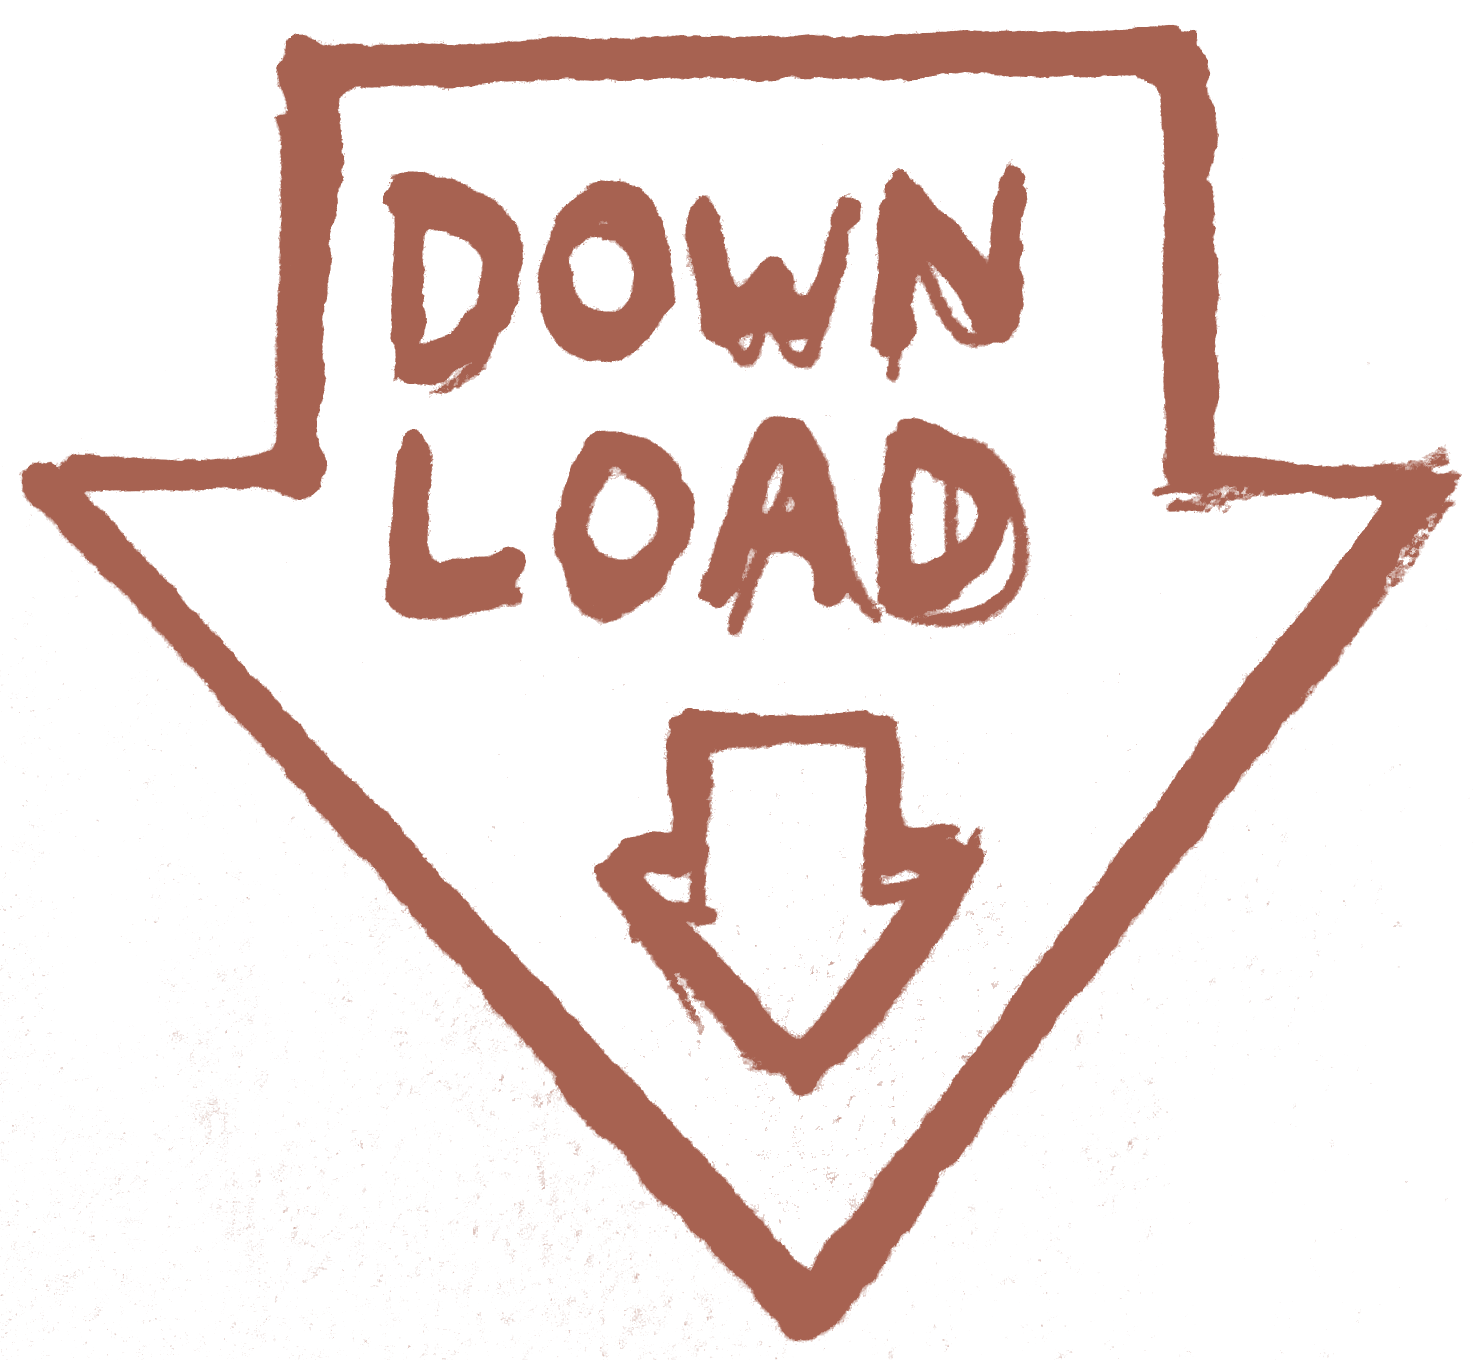
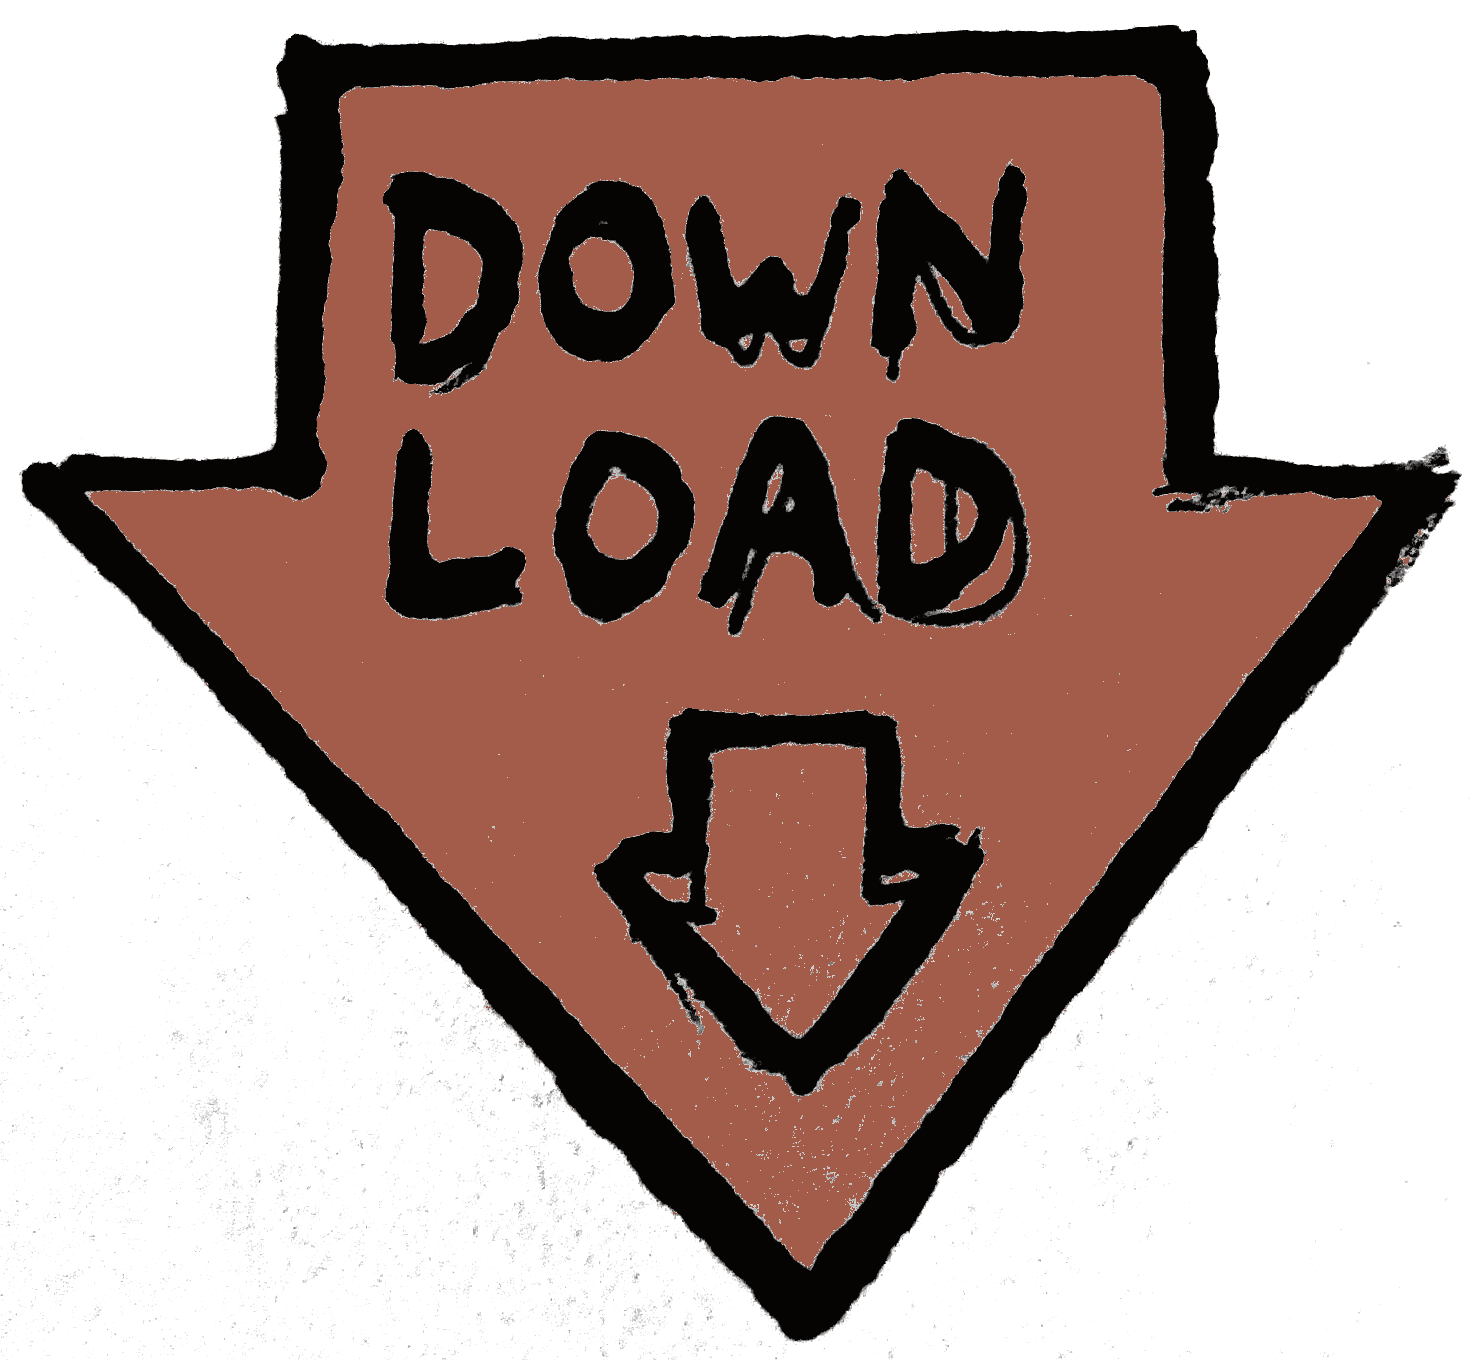
Fill the download arrows with terracotta, keep lines/text black
Swap: outline strokes and "DOWNLOAD" text back to black, and the
arrow's interior filled with the terracotta (#a35c4a) instead of
white, matching the site's other filled red badges. Bump image
cache-bust to v=3 everywhere it's used.

diff --git a/codex-fr.html b/codex-fr.html
@@ -24,10 +24,10 @@
     <img src="codex-art-mobile.jpg" alt="Drawing: a corridor of ornate ink arches leading to a small tree and a doorway" class="codex-art-mobile">
     <p class="content-link codex-title" style="color:var(--rouge); font-weight:700; text-decoration:none;">Burnin' Chamber Music (!) I</p>
     <embed src="score-I.pdf" type="application/pdf">
-    <p><a class="content-link codex-download" href="score-I.pdf" target="_blank" rel="noopener"><img src="download-arrow-fill.png?v=2" alt="Télécharger les partitions en PDF" class="download-arrow"></a></p>
+    <p><a class="content-link codex-download" href="score-I.pdf" target="_blank" rel="noopener"><img src="download-arrow-fill.png?v=3" alt="Télécharger les partitions en PDF" class="download-arrow"></a></p>
     <p class="content-link codex-title" style="color:var(--rouge); font-weight:700; text-decoration:none; margin-top:1rem;">Burnin' Chamber Music (!) II</p>
     <embed src="score-II.pdf" type="application/pdf">
-    <p><a class="content-link codex-download" href="score-II.pdf" target="_blank" rel="noopener"><img src="download-arrow-fill.png?v=2" alt="Télécharger les partitions en PDF" class="download-arrow"></a></p>  </div>
+    <p><a class="content-link codex-download" href="score-II.pdf" target="_blank" rel="noopener"><img src="download-arrow-fill.png?v=3" alt="Télécharger les partitions en PDF" class="download-arrow"></a></p>  </div>
   <img src="codex-figure.jpg" alt="Drawing: a framed figure with arms crossed and a head made of ornate clustered shapes" class="codex-figure">
   <img src="niu.svg" alt="Drawing: a spiky ink sunburst with a hollow center" class="codex-niu">
 </div>

diff --git a/codex-ro.html b/codex-ro.html
@@ -24,10 +24,10 @@
     <img src="codex-art-mobile.jpg" alt="Drawing: a corridor of ornate ink arches leading to a small tree and a doorway" class="codex-art-mobile">
     <p class="content-link codex-title" style="color:var(--rouge); font-weight:700; text-decoration:none;">Burnin' Chamber Music (!) I</p>
     <embed src="score-I.pdf" type="application/pdf">
-    <p><a class="content-link codex-download" href="score-I.pdf" target="_blank" rel="noopener"><img src="download-arrow-fill.png?v=2" alt="Descarcă partiturile în PDF" class="download-arrow"></a></p>
+    <p><a class="content-link codex-download" href="score-I.pdf" target="_blank" rel="noopener"><img src="download-arrow-fill.png?v=3" alt="Descarcă partiturile în PDF" class="download-arrow"></a></p>
     <p class="content-link codex-title" style="color:var(--rouge); font-weight:700; text-decoration:none; margin-top:1rem;">Burnin' Chamber Music (!) II</p>
     <embed src="score-II.pdf" type="application/pdf">
-    <p><a class="content-link codex-download" href="score-II.pdf" target="_blank" rel="noopener"><img src="download-arrow-fill.png?v=2" alt="Descarcă partiturile în PDF" class="download-arrow"></a></p>  </div>
+    <p><a class="content-link codex-download" href="score-II.pdf" target="_blank" rel="noopener"><img src="download-arrow-fill.png?v=3" alt="Descarcă partiturile în PDF" class="download-arrow"></a></p>  </div>
   <img src="codex-figure.jpg" alt="Drawing: a framed figure with arms crossed and a head made of ornate clustered shapes" class="codex-figure">
   <img src="niu.svg" alt="Drawing: a spiky ink sunburst with a hollow center" class="codex-niu">
 </div>

diff --git a/codex-es.html b/codex-es.html
@@ -24,10 +24,10 @@
     <img src="codex-art-mobile.jpg" alt="Drawing: a corridor of ornate ink arches leading to a small tree and a doorway" class="codex-art-mobile">
     <p class="content-link codex-title" style="color:var(--rouge); font-weight:700; text-decoration:none;">Burnin' Chamber Music (!) I</p>
     <embed src="score-I.pdf" type="application/pdf">
-    <p><a class="content-link codex-download" href="score-I.pdf" target="_blank" rel="noopener"><img src="download-arrow-fill.png?v=2" alt="Descargar partituras en PDF" class="download-arrow"></a></p>
+    <p><a class="content-link codex-download" href="score-I.pdf" target="_blank" rel="noopener"><img src="download-arrow-fill.png?v=3" alt="Descargar partituras en PDF" class="download-arrow"></a></p>
     <p class="content-link codex-title" style="color:var(--rouge); font-weight:700; text-decoration:none; margin-top:1rem;">Burnin' Chamber Music (!) II</p>
     <embed src="score-II.pdf" type="application/pdf">
-    <p><a class="content-link codex-download" href="score-II.pdf" target="_blank" rel="noopener"><img src="download-arrow-fill.png?v=2" alt="Descargar partituras en PDF" class="download-arrow"></a></p>  </div>
+    <p><a class="content-link codex-download" href="score-II.pdf" target="_blank" rel="noopener"><img src="download-arrow-fill.png?v=3" alt="Descargar partituras en PDF" class="download-arrow"></a></p>  </div>
   <img src="codex-figure.jpg" alt="Drawing: a framed figure with arms crossed and a head made of ornate clustered shapes" class="codex-figure">
   <img src="niu.svg" alt="Drawing: a spiky ink sunburst with a hollow center" class="codex-niu">
 </div>

diff --git a/codex.html b/codex.html
@@ -24,10 +24,10 @@
     <img src="codex-art-mobile.jpg" alt="Drawing: a corridor of ornate ink arches leading to a small tree and a doorway" class="codex-art-mobile">
     <p class="content-link codex-title" style="color:var(--rouge); font-weight:700; text-decoration:none;">Burnin' Chamber Music (!) I</p>
     <embed src="score-I.pdf" type="application/pdf">
-    <p><a class="content-link codex-download" href="score-I.pdf" target="_blank" rel="noopener"><img src="download-arrow-fill.png?v=2" alt="Download scores in PDF" class="download-arrow"></a></p>
+    <p><a class="content-link codex-download" href="score-I.pdf" target="_blank" rel="noopener"><img src="download-arrow-fill.png?v=3" alt="Download scores in PDF" class="download-arrow"></a></p>
     <p class="content-link codex-title" style="color:var(--rouge); font-weight:700; text-decoration:none; margin-top:1rem;">Burnin' Chamber Music (!) II</p>
     <embed src="score-II.pdf" type="application/pdf">
-    <p><a class="content-link codex-download" href="score-II.pdf" target="_blank" rel="noopener"><img src="download-arrow-fill.png?v=2" alt="Download scores in PDF" class="download-arrow"></a></p>  </div>
+    <p><a class="content-link codex-download" href="score-II.pdf" target="_blank" rel="noopener"><img src="download-arrow-fill.png?v=3" alt="Download scores in PDF" class="download-arrow"></a></p>  </div>
   <img src="codex-figure.jpg" alt="Drawing: a framed figure with arms crossed and a head made of ornate clustered shapes" class="codex-figure">
   <img src="niu.svg" alt="Drawing: a spiky ink sunburst with a hollow center" class="codex-niu">
 </div>

diff --git a/argumentum-fr.html b/argumentum-fr.html
@@ -37,7 +37,7 @@
   <section class="presskit">
     <div class="presskit-cols">
       <div class="press-col">
-        <a class="content-link presskit-download-link" href="press-kit-press.pdf" download target="_blank" rel="noopener"><img src="download-arrow-fill.png?v=2" alt="" class="download-arrow">Dossier de presse</a>
+        <a class="content-link presskit-download-link" href="press-kit-press.pdf" download target="_blank" rel="noopener"><img src="download-arrow-fill.png?v=3" alt="" class="download-arrow">Dossier de presse</a>
         <article>
           <p class="press-lede">Deux saxophones, une basse défrettée et des percussions hétéroclites : un son rugueux, lyrique, qui se consume dans une danse aveugle<sup>*</sup>.</p>
           <p class="press-sub">* Port du casque recommandé.</p>
@@ -55,7 +55,7 @@
       </div>
 
       <div class="tech-col">
-        <a class="content-link presskit-download-link" href="press-kit-technical.pdf" download target="_blank" rel="noopener"><img src="download-arrow-fill.png?v=2" alt="" class="download-arrow">Fiche technique</a>
+        <a class="content-link presskit-download-link" href="press-kit-technical.pdf" download target="_blank" rel="noopener"><img src="download-arrow-fill.png?v=3" alt="" class="download-arrow">Fiche technique</a>
         <article class="rider">
           <h3>Fiche technique</h3>
           <div class="rider-grid">

diff --git a/argumentum-es.html b/argumentum-es.html
@@ -37,7 +37,7 @@
   <section class="presskit">
     <div class="presskit-cols">
       <div class="press-col">
-        <a class="content-link presskit-download-link" href="press-kit-press.pdf" download target="_blank" rel="noopener"><img src="download-arrow-fill.png?v=2" alt="" class="download-arrow">Dossier de prensa</a>
+        <a class="content-link presskit-download-link" href="press-kit-press.pdf" download target="_blank" rel="noopener"><img src="download-arrow-fill.png?v=3" alt="" class="download-arrow">Dossier de prensa</a>
         <article>
           <p class="press-lede">Dos saxofones, un bajo sin trastes y percusiones heteróclitas: un sonido rugoso, lírico, que se consume en una danza ciega<sup>*</sup>.</p>
           <p class="press-sub">* Se recomienda casco de obra.</p>
@@ -55,7 +55,7 @@
       </div>
 
       <div class="tech-col">
-        <a class="content-link presskit-download-link" href="press-kit-technical.pdf" download target="_blank" rel="noopener"><img src="download-arrow-fill.png?v=2" alt="" class="download-arrow">Ficha técnica</a>
+        <a class="content-link presskit-download-link" href="press-kit-technical.pdf" download target="_blank" rel="noopener"><img src="download-arrow-fill.png?v=3" alt="" class="download-arrow">Ficha técnica</a>
         <article class="rider">
           <h3>Ficha técnica</h3>
           <div class="rider-grid">

diff --git a/argumentum-ro.html b/argumentum-ro.html
@@ -35,7 +35,7 @@
   <section class="presskit">
     <div class="presskit-cols">
       <div class="press-col">
-        <a class="content-link presskit-download-link" href="press-kit-press.pdf" download target="_blank" rel="noopener"><img src="download-arrow-fill.png?v=2" alt="" class="download-arrow">Press kit</a>
+        <a class="content-link presskit-download-link" href="press-kit-press.pdf" download target="_blank" rel="noopener"><img src="download-arrow-fill.png?v=3" alt="" class="download-arrow">Press kit</a>
         <article>
           <p class="press-lede">Două saxofoane, un bas fără taste și percuție insolită: un sunet aspru, liric, care se consumă pe sine într-un dans orb<sup>*</sup>.</p>
           <p class="press-sub">* Casca de protecție este recomandată.</p>
@@ -53,7 +53,7 @@
       </div>
 
       <div class="tech-col">
-        <a class="content-link presskit-download-link" href="press-kit-technical.pdf" download target="_blank" rel="noopener"><img src="download-arrow-fill.png?v=2" alt="" class="download-arrow">Rider tehnic</a>
+        <a class="content-link presskit-download-link" href="press-kit-technical.pdf" download target="_blank" rel="noopener"><img src="download-arrow-fill.png?v=3" alt="" class="download-arrow">Rider tehnic</a>
         <article class="rider">
           <h3>Rider tehnic</h3>
           <div class="rider-grid">

diff --git a/argumentum.html b/argumentum.html
@@ -35,7 +35,7 @@
   <section class="presskit">
     <div class="presskit-cols">
       <div class="press-col">
-        <a class="content-link presskit-download-link" href="press-kit-press.pdf" download target="_blank" rel="noopener"><img src="download-arrow-fill.png?v=2" alt="" class="download-arrow">Press Kit</a>
+        <a class="content-link presskit-download-link" href="press-kit-press.pdf" download target="_blank" rel="noopener"><img src="download-arrow-fill.png?v=3" alt="" class="download-arrow">Press Kit</a>
         <article>
           <p class="press-lede">Two saxophones, an unfretted bass and motley percussion: a rough, lyrical sound that consumes itself in a blind dance<sup>*</sup>.</p>
           <p class="press-sub">* Hard hat recommended.</p>
@@ -53,7 +53,7 @@
       </div>
 
       <div class="tech-col">
-        <a class="content-link presskit-download-link" href="press-kit-technical.pdf" download target="_blank" rel="noopener"><img src="download-arrow-fill.png?v=2" alt="" class="download-arrow">Technical Rider</a>
+        <a class="content-link presskit-download-link" href="press-kit-technical.pdf" download target="_blank" rel="noopener"><img src="download-arrow-fill.png?v=3" alt="" class="download-arrow">Technical Rider</a>
         <article class="rider">
           <h3>Technical rider</h3>
           <div class="rider-grid">
